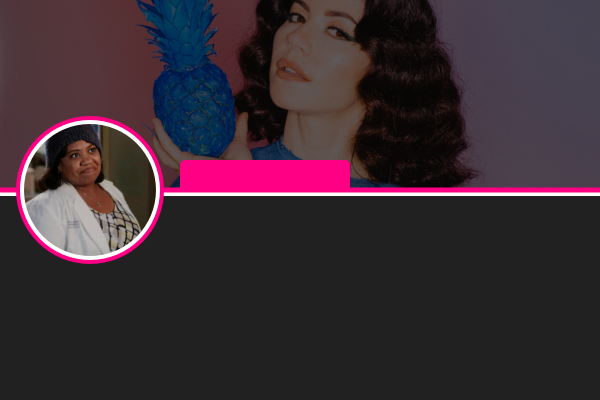
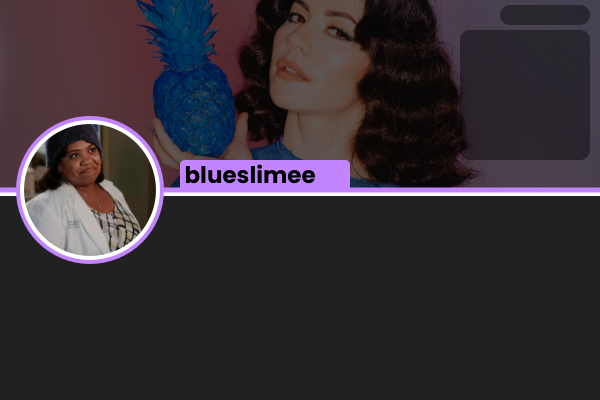
add more stuff & resizing tool

diff --git a/src/utils/utils.go b/src/utils/utils.go
@@ -8,23 +8,15 @@ import (
   "image/color"
   _ "image/jpeg"
   _ "image/png"
-  "golang.org/x/image/font"
 )
 
 import (
   "github.com/fogleman/gg"
   "github.com/disintegration/imaging"
-  //"github.com/golang/freetype/truetype"
 )
 
 type Utils struct {
   default_image image.Image
-  fontCache []Font
-}
-
-type Font struct {
-  font font.Face
-  path string
 }
 
 func (util *Utils) ReadImageFromURL(url string, x, y int) image.Image {
@@ -53,10 +45,6 @@ func (util *Utils) ReadImageFromURL(url string, x, y int) image.Image {
 func (util *Utils) GetColorLuminance(color color.RGBA) float64 {
   return float64(float64(0.299) * float64(color.R) + float64(0.587) * float64(color.G) + float64(0.114) * float64(color.B))
 }
-
-/*func (util Utils) GetFontFaceOrCreate(path string) font.Face {
-  append(util.fontCache, face)
-}*/
 
 func (util *Utils) GetCompatibleFontColor(hex_color string) string {
   c, err := util.ParseHexColor(hex_color)

diff --git a/src/generator/profile/default.go b/src/generator/profile/default.go
@@ -32,6 +32,15 @@ func (p DefaultProfile) Render() image.Image {
   dc.DrawRoundedRectangle(180, 160, 170, 35, 5)
   dc.Fill()
   
+  // R RECT YEN
+  dc.SetRGBA(0, 0, 0, 150)
+  dc.DrawRoundedRectangle(500, 5, 90, 20, 10)
+  dc.Fill()
+  
+  // R RECT STICKER
+  dc.SetRGBA(0, 0, 0, 150)
+  dc.DrawRoundedRectangle(460, 30, 130, 130, 10)
+  dc.Fill()
   // WHITE CONTOURS
   dc.SetHexColor("ffffff")
   dc.SetLineWidth(6)
@@ -65,10 +74,17 @@ func (p DefaultProfile) Render() image.Image {
   dc.DrawCircle(float64(x), float64(y), 66)
   dc.Clip()
   dc.DrawImageAnchored(avatar, x, y, 0.5, 0.5)
+  dc.ResetClip()
   
   /* TEXT RENDERING SECTION */
   // USERNAME
+  e := dc.LoadFontFace("../assets/fonts/Poppins/Poppins-Bold.ttf", 23)
+  if e != nil {
+    panic(e)
+  }
+  
   dc.SetHexColor(p.Generator.Toolbox.GetCompatibleFontColor(p.FavColor))
+  dc.DrawStringAnchored(p.Name, 250, 174, 0.5, 0.5)
   
   dc.SavePNG("out.png")
   

diff --git a/resizer.go b/resizer.go
@@ -1,0 +1,44 @@
+package main
+// utility for resizing images
+
+import (
+  "image"
+  "image/png"
+  _ "image/jpeg"
+  "os"
+)
+
+import (
+  "github.com/disintegration/imaging"
+)
+func main () {
+  path := "./nyc.jpg"
+  x := 600
+  y := 190
+  save_to := "./assets/images/bgs/nyc_skyline.png"
+  
+  img_reader, err := os.Open(path)
+  if err != nil {
+    panic(err)
+  }
+  defer img_reader.Close()
+  
+  img, _, err := image.Decode(img_reader)
+  if err != nil {
+    panic(err)
+  }
+  img = imaging.Fill(img, x, y, imaging.Center, imaging.Linear)
+  
+  outf, err := os.Create(save_to)
+  if err != nil {
+    panic(err)
+  }
+  defer outf.Close()
+  
+  err = png.Encode(outf, img)
+  if err != nil {
+    panic(err)
+  } else {
+    print("done")
+  }
+}

diff --git a/src/main.go b/src/main.go
@@ -13,7 +13,7 @@ func main() {
 	  AboutMe: "And you push me up to this state of emergency, how beautiful to be. State of emergency, is where I want to be. State of emergency, how beautiful to be. ",
 	  BackgroundURL: "https://cdn.discordapp.com/attachments/504668288798949376/771450739737755748/MARINA-6912.png",
 	  AvatarURL: "https://cdn.discordapp.com/attachments/504668288798949376/771567079538688050/bailey_hat.jpeg",
-	  FavColor: "ff0085",
+	  FavColor: "c285ff",
 	  HighestRole: "Jesus",
 	}
 	
